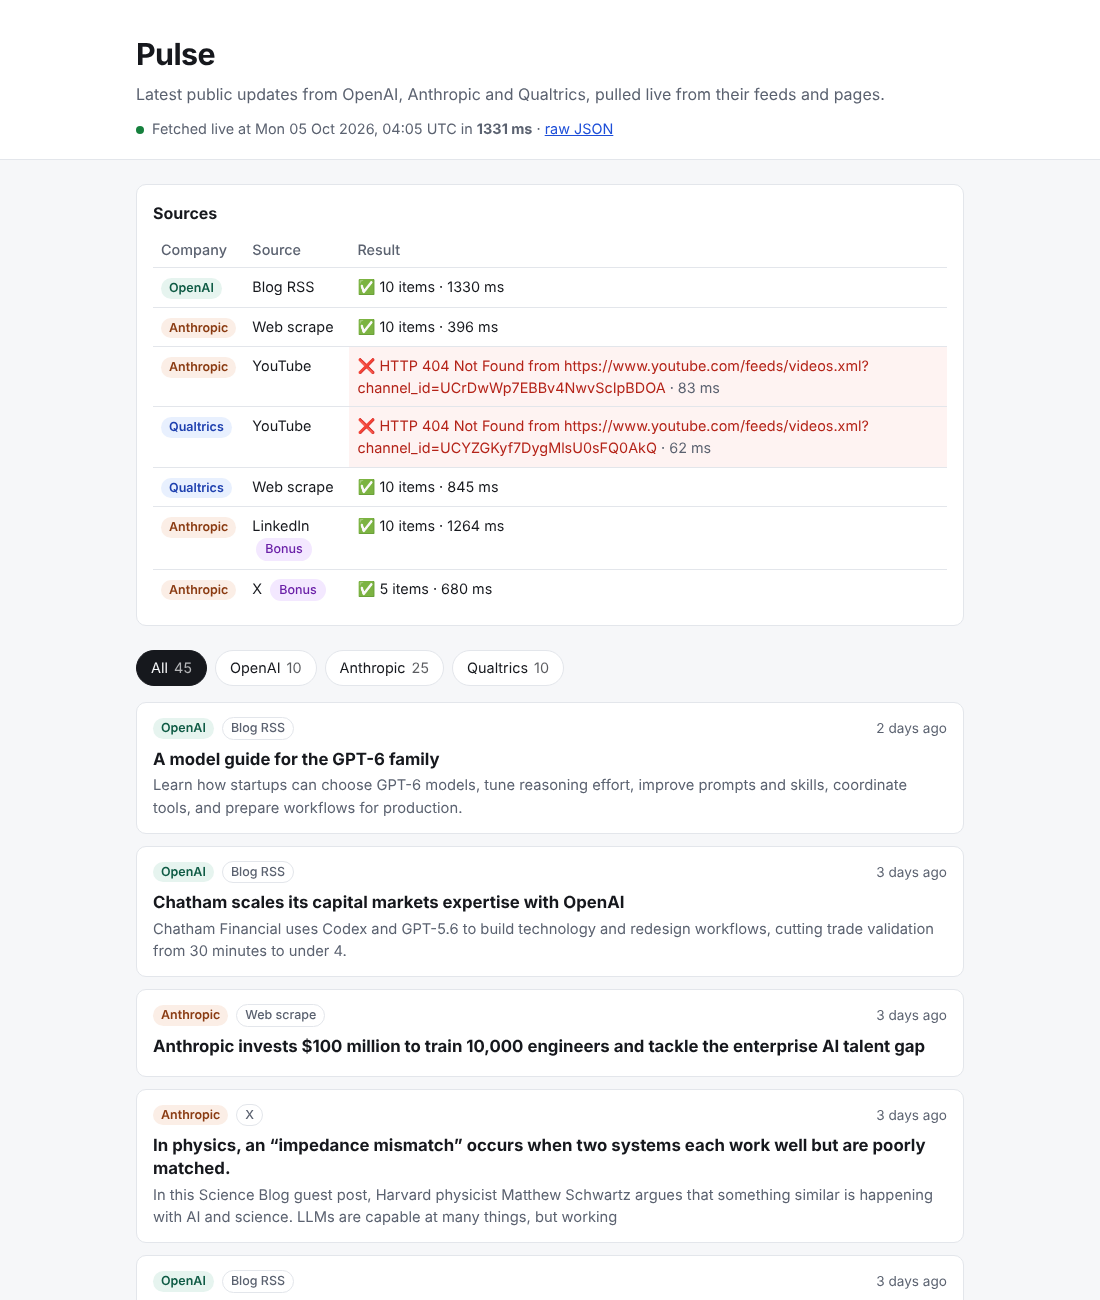
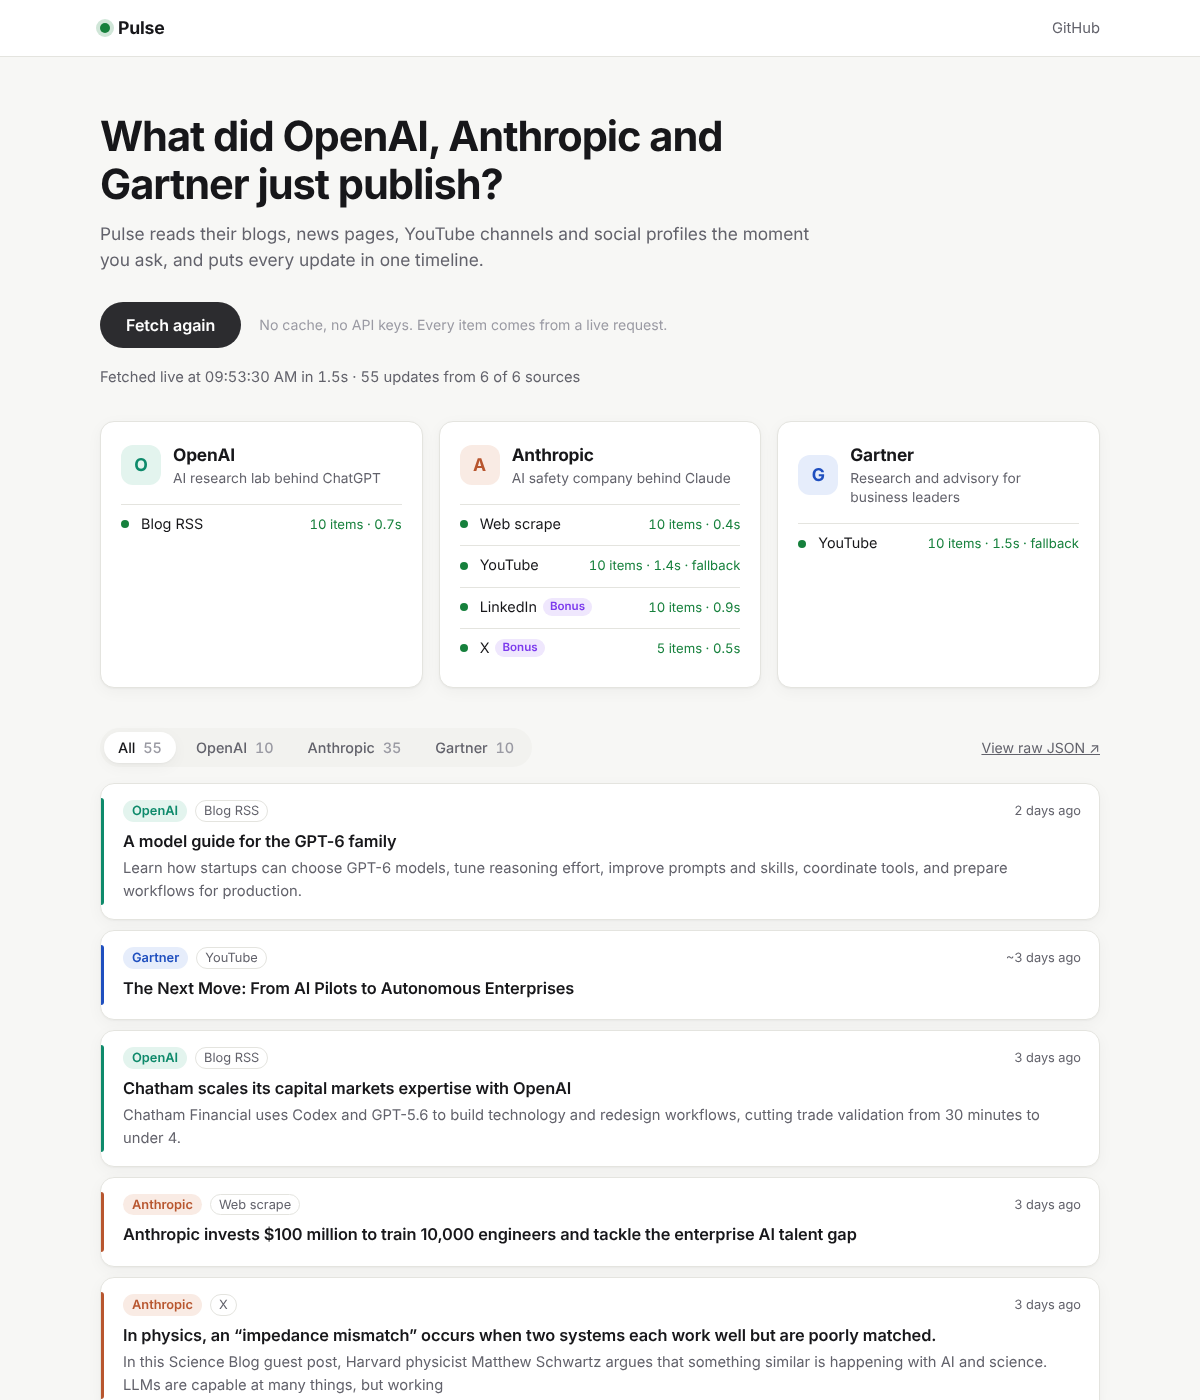
README: Gartner, fetch-on-demand flow, YouTube fallback, new screenshot

diff --git a/README.md b/README.md
@@ -1,11 +1,11 @@
 # Pulse
 
-Pulse shows the latest public updates from **OpenAI**, **Anthropic** and **Qualtrics** on one page, newest first, each linking back to its source.
-Every item is fetched live over HTTP when the page loads. Nothing is cached, stored, pasted in or generated.
+Pulse shows the latest public updates from **OpenAI**, **Anthropic** and **Gartner** in one timeline, newest first, each linking back to its source.
+Open the page and press **Fetch now**: the server pulls every source live at that moment. Nothing is cached, stored, pasted in or generated.
 
 **Live:** https://pulse.3minbite.online  ·  raw data: [`/api/updates`](https://pulse.3minbite.online/api/updates)
 
-<!-- Screenshot of the hosted page, 5 Oct 2026. Replace docs/screenshot.png with a fresh one any time. -->
+<!-- Screenshot of the hosted page after "Fetch now", 5 Oct 2026. Replace docs/screenshot.png any time. -->
 ![Pulse screenshot](docs/screenshot.png)
 
 ---
@@ -23,26 +23,33 @@ python app.py                    # → http://localhost:5000
 
 Python 3.10+ works (Vercel runs 3.12). There are no API keys, environment variables or database.
 
-## 2. How fetching works
+## 2. How it works
+
+1. `GET /` renders the landing page straight from the source registry: the three companies, their sources, and a **Fetch now** button. No outside requests happen yet.
+2. **Fetch now** calls `GET /api/updates`. The server fetches every source in parallel and returns JSON.
+3. `public/static/app.js` fills in each source's result (item count and time, or the exact error) and renders the merged timeline with filter tabs.
+
+### Sources
 
 | Company | Source | Method | URL | Local | Vercel |
 |---|---|---|---|---|---|
-| OpenAI | News feed | RSS via `feedparser` | `https://openai.com/news/rss.xml` | ✅ 10 items | ✅ 10 items |
-| Anthropic | News page | HTML scrape (`requests` + BeautifulSoup) | `https://www.anthropic.com/news` | ✅ 10 items | ✅ 10 items |
-| Anthropic | YouTube | Atom feed via `feedparser` | `youtube.com/feeds/videos.xml?channel_id=UCrDwWp7EBBv4NwvScIpBDOA` | ✅ 10 items | ❌ HTTP 404 |
-| Qualtrics | YouTube | Atom feed via `feedparser` | `youtube.com/feeds/videos.xml?channel_id=UCYZGKyf7DygMlsU0sFQ0AkQ` | ✅ 10 items | ❌ HTTP 404 |
-| Qualtrics | Newsroom | HTML scrape: listing page plus each article page (in parallel) | `https://www.qualtrics.com/news/` | ✅ 10 items | ✅ 10 items |
-| Anthropic *(bonus)* | LinkedIn | Plain GET, logged out | `https://www.linkedin.com/company/anthropicresearch/` | ✅ 10 posts | ✅ 10 posts |
-| Anthropic *(bonus)* | X | Plain GET, logged out | `https://x.com/AnthropicAI` | ✅ 5 posts | ✅ 5 posts |
+| OpenAI | News feed | RSS via `feedparser` | `https://openai.com/news/rss.xml` | ✅ 10 | ✅ 10 |
+| Anthropic | News page | HTML scrape (`requests` + BeautifulSoup) | `https://www.anthropic.com/news` | ✅ 10 | ✅ 10 |
+| Anthropic | YouTube | RSS feed, falling back to the channel page | [`@anthropic-ai`](https://www.youtube.com/@anthropic-ai) · `UCrDwWp7EBBv4NwvScIpBDOA` | ✅ 10 (feed) | ✅ 10 (fallback) |
+| Gartner | YouTube | RSS feed, falling back to the channel page | [`@Gartnervideo`](https://www.youtube.com/@Gartnervideo) · `UCSNX50LYGXWV_e5UWZGPGbw` | ✅ 10 (usually feed) | ✅ 10 (fallback) |
+| Anthropic *(bonus)* | LinkedIn | Plain GET, logged out | `https://www.linkedin.com/company/anthropicresearch/` | ✅ 10 | ✅ 10 |
+| Anthropic *(bonus)* | X | Plain GET, logged out | `https://x.com/AnthropicAI` | ✅ 5 | ✅ 5 |
 
-Statuses were checked on 5 Oct 2026 against http://localhost:5000 and https://pulse.3minbite.online. The page's status panel shows the live result on every load.
+Statuses were checked on 5 Oct 2026 against http://localhost:5000 and https://pulse.3minbite.online. The page shows the live result on every fetch.
 
-**How each source was found and checked.** Every URL was requested and its response inspected before any fetcher was written:
+### What I found while checking each source
 
-- **YouTube channel IDs** come from the `<link rel="canonical">` on each channel page: `@anthropic-ai`, and `user/QualtricsSoftware`, which is the channel qualtrics.com links to.
-- **Qualtrics has no blog RSS.** `/blog/feed/`, `/articles/feed/`, `/news/feed.xml` and similar paths all return 404. `/rss.xml` responds, but it's a CMS dump of event-page templates, not posts, so YouTube is Qualtrics' primary source.
-- **⚠ YouTube on Vercel.** YouTube returns 404 for channel feeds when the request comes from a cloud or datacenter IP. The same URL returns 200 from a home connection. Both feeds are kept, and the error is shown honestly on the page.
-- **Qualtrics newsroom (added after deploying).** Because of the YouTube block, Qualtrics had no items on the hosted site, so I added a scrape of the newsroom, which works from cloud IPs. Its listing page has titles but no dates, so the fetcher also opens each article (10 requests in parallel) to read its date label and meta description. That costs about 1–1.5s, which still sits inside the page deadline.
+Every URL was requested and its response inspected before any fetcher was written.
+
+- **Gartner's own site is unreachable by plain HTTP.** Every gartner.com URL I tried returned **HTTP 403 with a Cloudflare "Just a moment…" JavaScript challenge**: the newsroom, `/en/newsroom/rss`, `blogs.gartner.com/feed/`, even `robots.txt`. This happened from both a cloud server and a home connection. Passing it would need a headless browser or a scraping service, which are out of scope. So Gartner's YouTube channel is its source.
+- **YouTube's RSS feeds are unreliable.** From a home connection, `feeds/videos.xml` returns 404 intermittently; a retry usually works. From cloud IPs (including Vercel) it fails every time (404/500). The channel's `/videos` page, however, loads everywhere.
+- **The fallback** reads that page's embedded JSON (`ytInitialData`) for titles and video IDs. The page only says "3 days ago", so those dates are **approximate**. They're flagged `date_approx` in the JSON, shown with a `~` in the UI, and the source is marked "fallback".
+- **Channel IDs** come from the `<link rel="canonical">` on each channel page.
 
 ## 3. Walkthrough of the fetch code
 
@@ -50,16 +57,16 @@ Everything lives in [`fetchers/`](fetchers):
 
 | File | What it does |
 |---|---|
-| [`__init__.py`](fetchers/__init__.py) | `SOURCES` registry, plus `run_all()`, which fetches every source in parallel and merges the results |
+| [`__init__.py`](fetchers/__init__.py) | The `COMPANIES` and `SOURCES` registry, plus `run_all()`, which fetches everything in parallel and merges the results |
 | [`common.py`](fetchers/common.py) | `http_get()` (the one place the User-Agent and 6s timeout are set), plus date and summary normalisation |
-| [`rss.py`](fetchers/rss.py) | `fetch_feed()`: one generic RSS/Atom fetcher, used for OpenAI and both YouTube channels |
+| [`rss.py`](fetchers/rss.py) | `fetch_feed()`: one generic RSS/Atom fetcher |
+| [`youtube.py`](fetchers/youtube.py) | `fetch_youtube()`: tries the feed up to 3 times, then falls back to the channel page |
 | [`anthropic_news.py`](fetchers/anthropic_news.py) | `fetch_anthropic_news()`: scrapes the `<a href="/news/…">` cards |
-| [`qualtrics_news.py`](fetchers/qualtrics_news.py) | `fetch_qualtrics_news()`: a two-step scrape (listing page, then each article in parallel for its date) |
 | [`social.py`](fetchers/social.py) | `fetch_linkedin()` / `fetch_x()`: the bonus attempts |
 
 **Where the HTTP requests happen:**
 
-- `common.http_get()` makes every feed and scrape request: one `requests.get(url, headers=…, timeout=6)`.
+- `common.http_get()` makes every feed, scrape and YouTube request: one `requests.get(url, headers=…, timeout=6)`.
 - `social._get_public_page()` makes the LinkedIn and X requests. It calls `requests.get` itself so it can report *why* a platform blocked it (999, login redirect, empty body).
 
 **How results are merged and sorted (`fetchers/__init__.py`):**
@@ -69,24 +76,24 @@ Everything lives in [`fetchers/`](fetchers):
 3. `run_all()` flattens every source's items, de-duplicates again and sorts.
 4. `newest_first()` sorts by the ISO-8601 UTC string. One fixed format means text order equals time order, and items with no date sort as `""`, so they land at the bottom.
 
-Every fetcher returns the same `SourceResult` shape (see `common.py`). The page and `/api/updates` both render exactly that.
-
 ## 4. LinkedIn & X: what I tried and what happened
 
-These were attempted with a single plain `GET`, a browser User-Agent and **no cookies, login, API or scraping service**.
+These were attempted for Anthropic with a single plain `GET`, a browser User-Agent and **no cookies, login, API or scraping service**.
 
-- **LinkedIn.** `GET /company/anthropicresearch/` returned **HTTP 200** with about 345 KB of HTML that already contains the 10 latest posts as `<article data-activity-urn="urn:li:activity:…">`. Posts only show relative dates ("1w"), so the exact date is decoded from the activity ID, whose top 41 bits are the creation time in ms. I checked this against the Anthropic enzyme post: the ID decodes to 23 Sep 2026, the same day as the news article. The code still handles the usual blocks (HTTP 999, `authwall` redirect). LinkedIn often serves those to datacenter IPs, so this source may flip to ❌ at any time.
-- **X.** `GET /AnthropicAI` returned **HTTP 200** with server-rendered HTML holding the latest posts, followed by a "Log in or sign up" wall. The fetcher keeps top-level posts by @AnthropicAI only (reposts of other accounts are skipped) and decodes each date from the snowflake ID (`(id >> 22) + 1288834974657` ms).
+- **LinkedIn.** `GET /company/anthropicresearch/` returned **HTTP 200** with about 345 KB of HTML that already contains the 10 latest posts as `<article data-activity-urn="urn:li:activity:…">`. Posts only show relative dates ("1w"), so the exact date is decoded from the activity ID, whose top 41 bits are the creation time in ms. I checked this against the Anthropic enzyme post: the ID decodes to 23 Sep 2026, the same day as the news article. The code still handles the usual blocks (HTTP 999, `authwall` redirect), which LinkedIn often serves to datacenter IPs.
+- **X.** `GET /AnthropicAI` returned **HTTP 200** with server-rendered HTML holding the latest posts, followed by a "Log in or sign up" wall. The fetcher keeps top-level posts by @AnthropicAI only and decodes each date from the snowflake ID (`(id >> 22) + 1288834974657` ms).
 
-Both are best-effort and labelled **Bonus** in the UI. If either platform changes its logged-out HTML, the status panel shows the precise reason instead.
+Both are best-effort and labelled **Bonus** in the UI. If either platform changes its logged-out HTML, the source row shows the precise reason instead.
 
 ## 5. Design decisions and trade-offs
 
-- **RSS first, scraping second.** Feeds are a published contract: stable, dated and cheap to parse. Scraping (Anthropic's news page) depends on markup, so the scraper matches only stable hooks (the `href` prefix, `<time>`, "title" in the class name) and never the hashed CSS class names.
-- **Parallel fetching.** The work is almost all waiting on the network. Threads overlap those waits, so a page load takes about as long as the slowest source (around 1–2s) rather than the sum. A hard 8.5s deadline keeps the page under ~10s even if a site hangs.
-- **No caching.** The brief was "genuinely fetched at page load", and the header's "Fetched live at … in N ms" proves it. Responses send `Cache-Control: no-store`, so Vercel's CDN never serves a stale copy. The cost is extra load on sources and slower pages under traffic. A real product would cache for a few minutes.
-- **Server-rendered.** Jinja plus plain CSS, with about 10 lines of JS for the filter tabs. There's no build step and nothing to break in a demo.
-- **Zero-config Vercel.** Vercel's current Flask support auto-detects the `app` in `app.py`, so there's no `api/index.py` shim or legacy `builds`/`routes` config. `vercel.json` only sets `maxDuration`. The CSS sits in `public/static/`, because Vercel serves `public/` from its CDN while Flask serves the same path locally. It's one codebase for both.
+- **Fetch on demand.** The landing page loads instantly and shows *what* will be fetched. The button makes the live pull explicit: you watch every source spin, then turn green or red with its timing. It also means opening the link costs the sources nothing.
+- **RSS first, scraping second.** Feeds are stable, dated and cheap to parse. Scrapers depend on markup, so they match only stable hooks (`href` prefixes, `<time>`, embedded JSON keys) and never hashed CSS class names.
+- **Honest fallbacks.** When YouTube's feed fails, a fallback keeps the source alive, but approximate dates are labelled, never passed off as exact.
+- **Parallel fetching.** The work is almost all waiting on the network. Threads overlap those waits, so a fetch takes about as long as the slowest source (around 1.5–3s) rather than the sum. A hard 8.5s deadline caps it.
+- **No caching.** The brief was "genuinely fetched at request time". Responses send `Cache-Control: no-store`, so Vercel's CDN never serves a stale copy. The cost is slower fetches and more load on sources under real traffic.
+- **No framework.** Jinja for the page and about 150 lines of vanilla JS for the button and timeline. All fetched text goes in through `textContent`, so a malicious title can't inject HTML.
+- **Zero-config Vercel.** Vercel's current Flask support auto-detects the `app` in `app.py`, so there's no `api/index.py` shim or legacy `builds`/`routes` config. `vercel.json` only sets `maxDuration`. CSS and JS sit in `public/static/`, because Vercel serves `public/` from its CDN while Flask serves the same path locally. It's one codebase for both.
 
 ## 6. How this was built
 
@@ -100,7 +107,8 @@ Directed with Claude Code: I wrote the brief, approved the plan, and approved ea
 ## 7. What I'd add next
 
 - **Scheduling.** A Vercel Cron job (or GitHub Action) that pulls every 15 minutes.
-- **Change tracking.** Store seen URLs (e.g. Vercel KV / Postgres) so the page can show what's new since the last visit.
+- **Change tracking.** Store seen URLs (e.g. Vercel KV / Postgres) so the page can highlight what's new since your last visit.
 - **Alerts.** Email or Slack when a tracked company posts.
-- **More sources.** GitHub releases, podcast feeds, and a YouTube fallback that works from cloud IPs.
+- **More sources.** Gartner via a source that isn't behind Cloudflare (e.g. its press releases on a wire service), GitHub releases and podcast feeds.
 - **Short caching.** A 2–5 minute cache to be polite to sources under real traffic.
+- **Streaming results.** Show each source the moment it finishes, instead of all at once.
